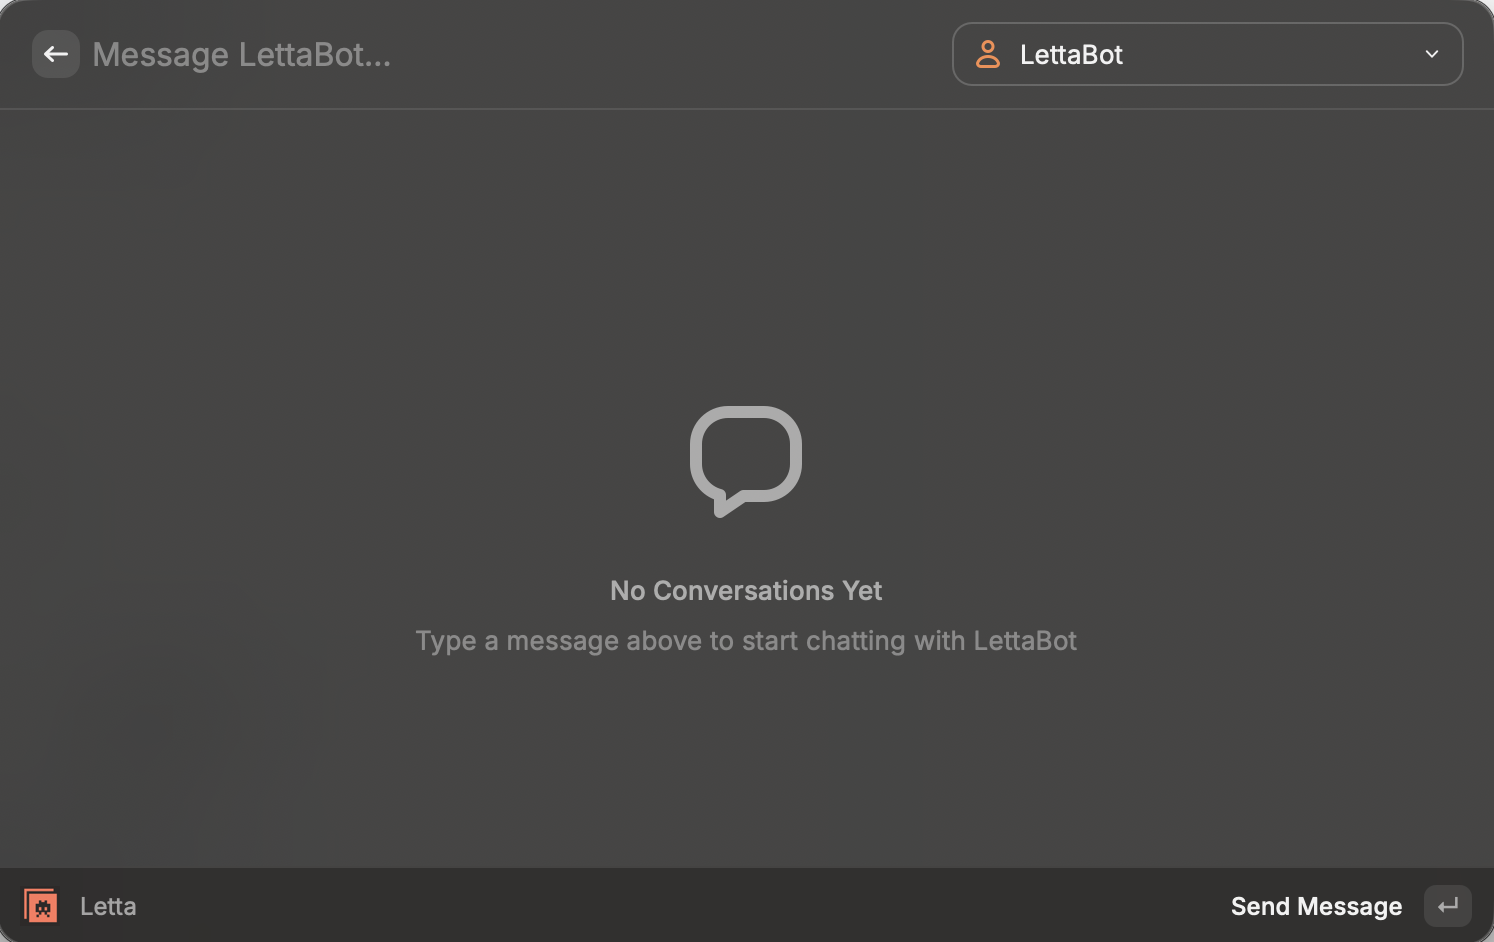
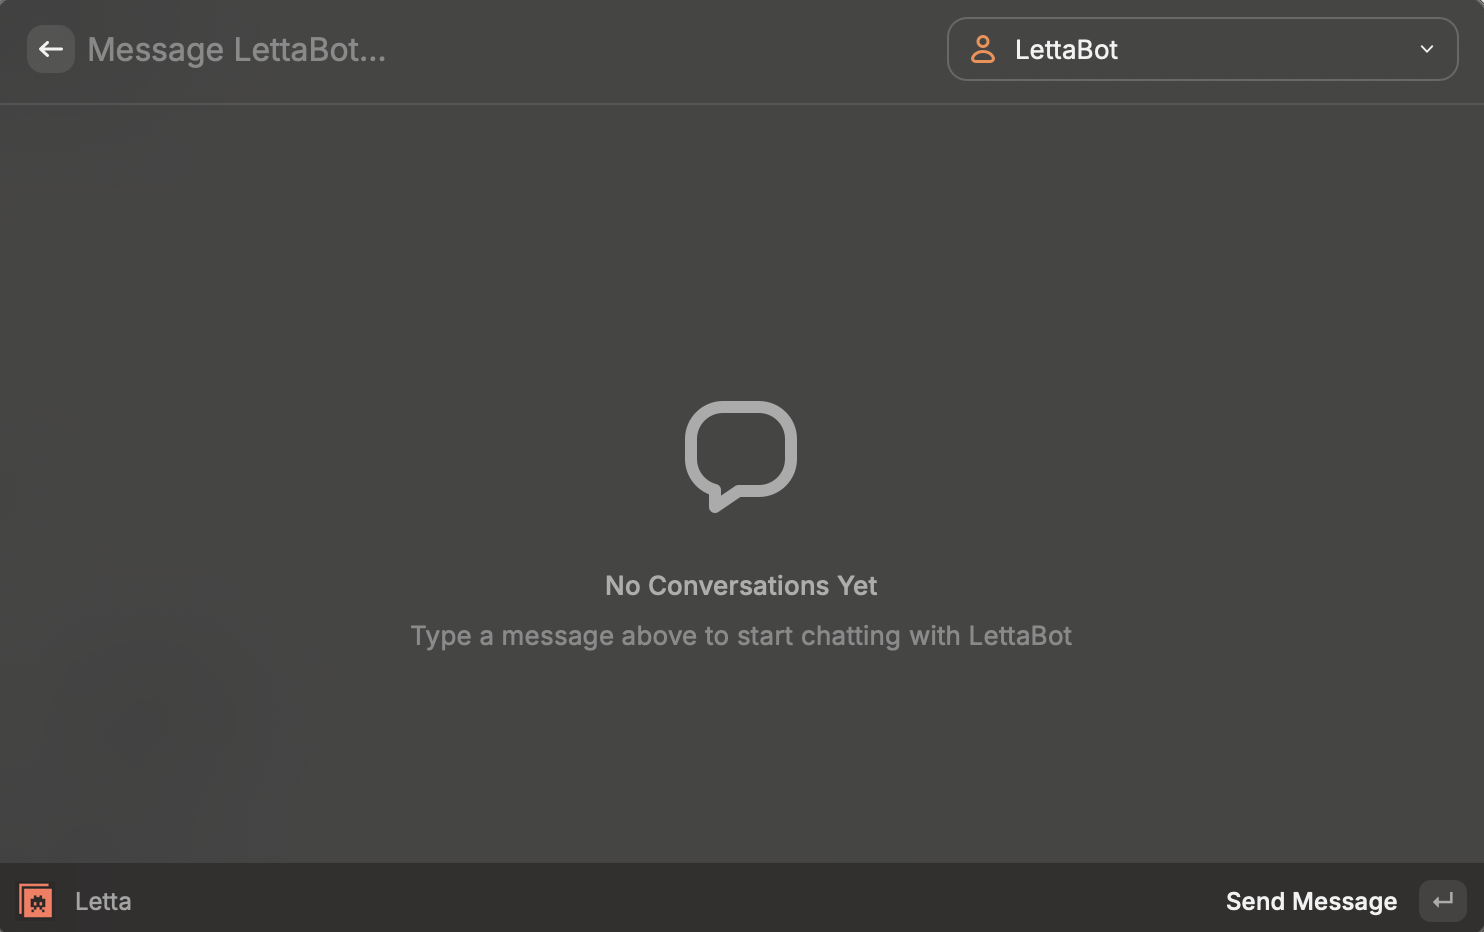
docs: crop white corners from chat interface screenshot

diff --git a/README.md b/README.md
@@ -8,7 +8,7 @@ Chat with your stateful AI agents that remember and learn over time — directly
 
 **Chat with your Letta agent**
 
-![Chat Interface](assets/screenshots/chat-interface.png?v=2)
+![Chat Interface](assets/screenshots/chat-interface.png?v=3)
 
 ## Features
 
